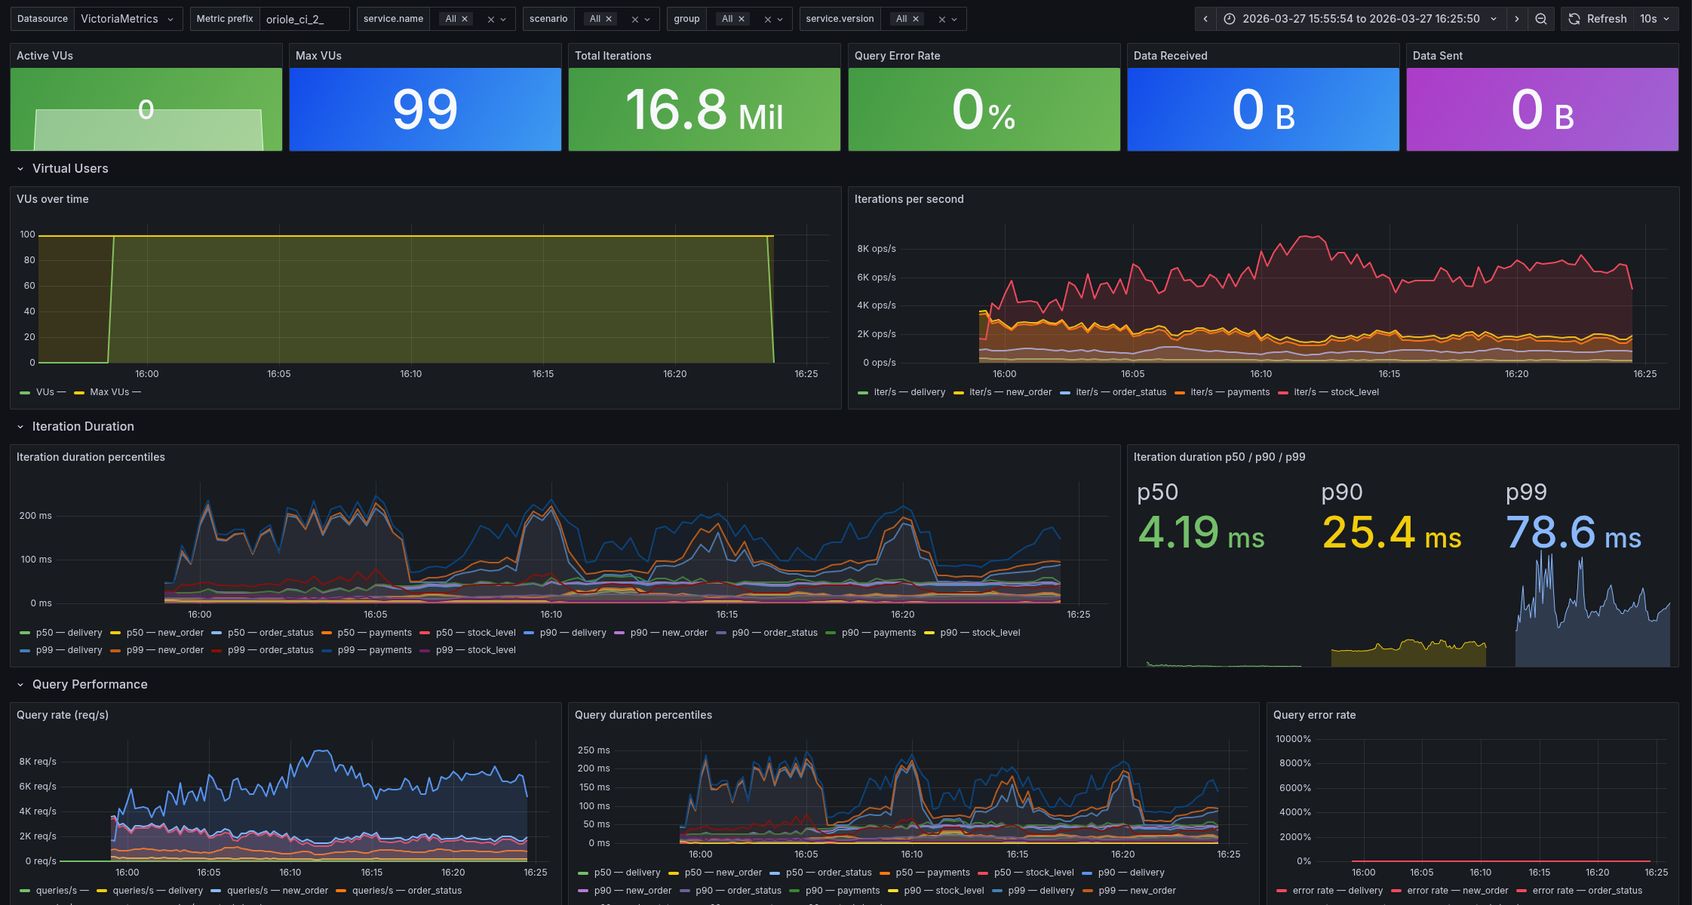
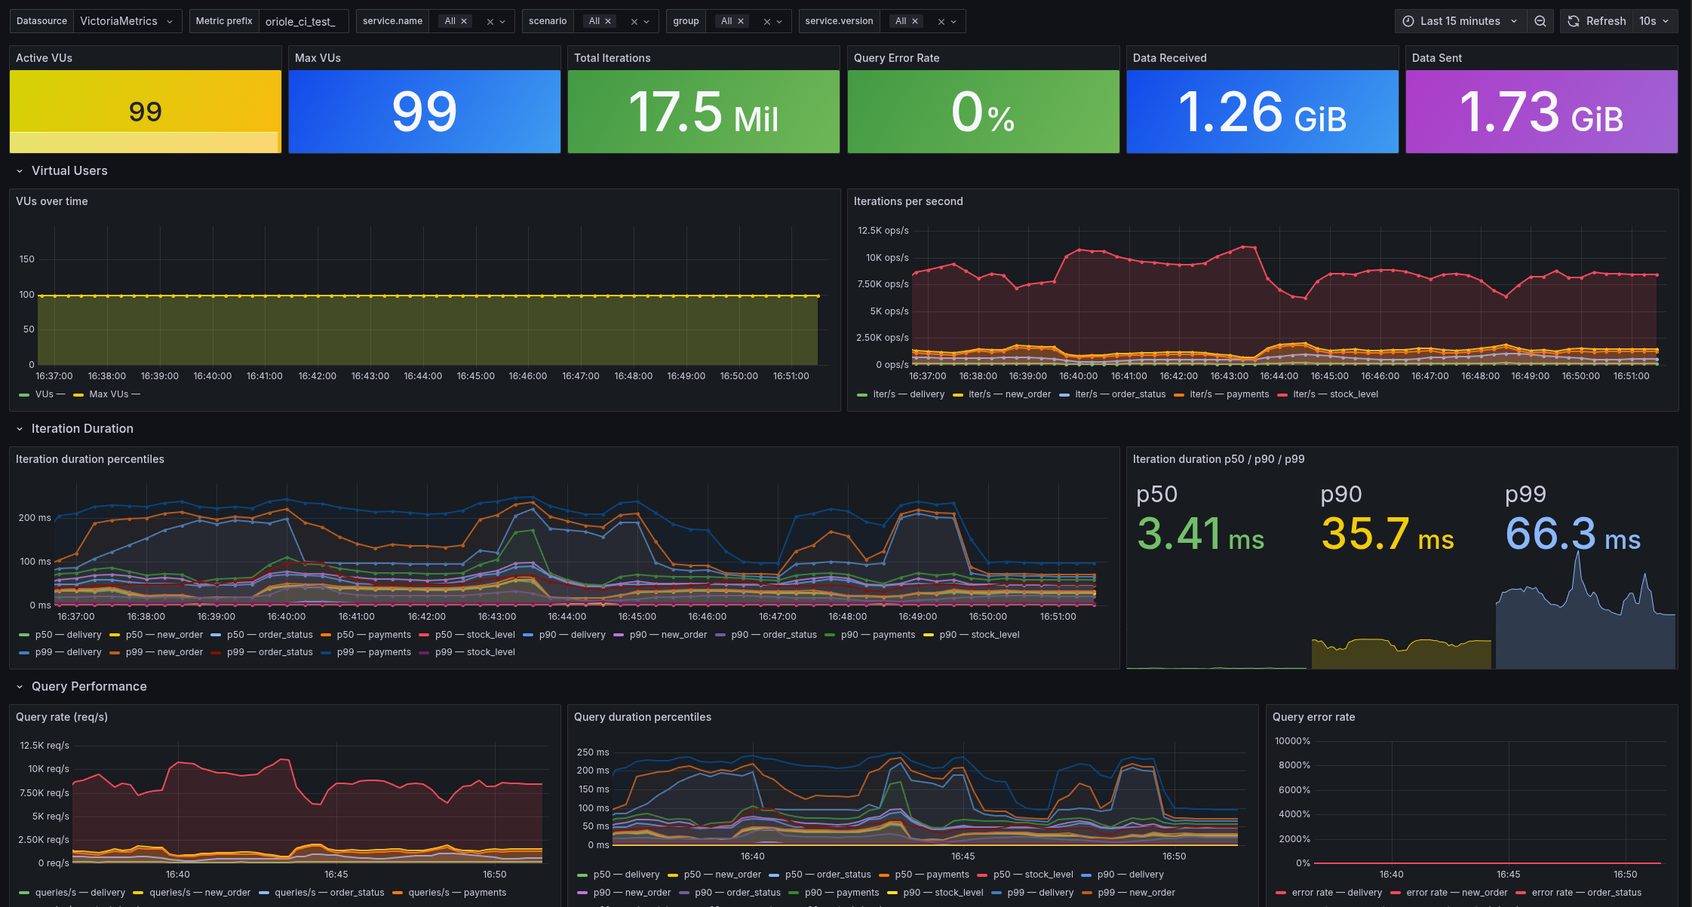
[blog] fix perf-in-ci

diff --git a/blog/2026-03-27-perf-in-ci/index.md b/blog/2026-03-27-perf-in-ci/index.md
@@ -5,271 +5,133 @@ authors: [stroppy-authors]
 tags: [ci, performance, tpc-c, orioledb, github-actions, monitoring]
 ---
 
-Imagine this scenario: a developer submits a Pull Request with an optimization. The reviewer examines the code, finds it correct, and approves it. A month later, it turns out that this "optimization" slowed down a critical path by 30%, but nobody noticed - because nobody measured. Finding the offending commit among dozens of merges is a matter of days, and reverting it is even harder.
+---
 
-This is a universal problem for any database engine, storage system, or performance-sensitive project. The only reliable solution is to measure automatically, on every PR, and present the results where the decision is being made - right in the pull request.
+## The Problem
 
-[Stroppy](https://github.com/stroppy-io/stroppy) is a multi-database, multi-benchmark performance testing tool built on top of [K6](https://k6.io/). It supports various workload types and database targets, with ready-made presets, structured result collection, and native CI integration via [stroppy-action](https://github.com/stroppy-io/stroppy-action).
+In performance-critical systems, ideally we want to validate every source code change and make sure no performance regressions are introduced. Functional tests handle correctness, but performance is trickier — how do you know a change won't slow things down?
 
-This article is a concrete case study: how we used Stroppy to build an automated performance testing pipeline for [OrioleDB](https://github.com/orioledb/orioledb) in GitHub Actions. Along the way, we tackled reproducibility, monitoring, and test acceleration - problems that arise in any CI performance testing setup.
+We worked with the OrioleDB maintainers to build a CI pipeline that runs TPC-C benchmarks on every PR and flags regressions before merge.
+
+OrioleDB is a PostgreSQL extension that combines the advantages of both on-disk and in-memory storage engines, using PostgreSQL's pluggable storage to improve performance and reduce costs.
 
 <!-- truncate -->
 
-### What is OrioleDB
-
-OrioleDB is a PostgreSQL extension that implements a fundamentally different storage engine. Instead of the standard heap-based storage, where every UPDATE creates a new row version and leaves a dead tuple for vacuum, OrioleDB offers an undo-log architecture with row-level WAL. This provides more efficient MVCC handling, virtually zero bloat, and better performance on OLTP workloads. The architecture is tightly coupled with performance at the level of every line of code - a change in B-tree traversal or in the checkpoint procedure can unexpectedly affect throughput or latency. This makes automated performance testing not a "nice to have" but a necessity.
-
 ---
 
-## Why test performance at the PR stage
+## How It Works
 
-One might argue: "we already run benchmarks before a release." But testing at the release stage is a post-mortem diagnosis. The regression is already in the code, already mixed in with dozens of other changes, and finding its source is a separate research task.
+### Stroppy Action
 
-Testing at the PR stage solves three fundamental problems:
+The best place to detect regressions is where changes are introduced: the Pull Request.
 
-**Regressions are caught at the point of origin.** When a benchmark shows "-12% throughput" on a specific PR - the culprit is obvious. No need to bisect the commit history, no need to reproduce the problem. The PR author sees the result and can fix or justify the regression right in the discussion.
+Since OrioleDB lives on GitHub, we built **[stroppy-action](https://github.com/stroppy-io/stroppy-action)** to run Stroppy directly from GitHub Actions:
 
-**Optimizations get evidence-based backing.** A PR with the description "sped up checkpoint by 20%" without numbers is a claim. A PR with an automated comment showing +18.3% iterations/s and -15.7% p95 latency is a fact. The reviewer sees not only that the code is correct, but that it actually improves things.
-
-**Manual benchmarks are no longer a bottleneck.** "It got faster on my laptop" is not a valid argument and cannot be one. Different machines, different configurations, different background noise from other processes. Automation eliminates the human factor: the same machine, the same test, automatic comparison, reproducible results.
-
-Our specific goal: on every PR in GitHub, a comment is automatically published with a "base vs head" table for key TPC-C metrics - throughput (iterations/s, queries/s) and latency (avg, median, p90, p95). The :white_check_mark: and :warning: indicators appear when deviation exceeds 3%, so the reviewer can instantly see whether there is cause for concern.
-
-![GitHub Actions pipeline: base and head benchmarks running in parallel](/img/blog/oriole-ci-action-view.jpg)
-
----
-
-## Making performance tests reliable
-
-An automated benchmark is useless if its results cannot be trusted. A 20% spread between runs, unpredictable timeouts, non-reproducible conditions - all of this turns the system from a decision-making tool into a noise generator. Reliability comes from three components: choosing the right benchmark, the right tool to run it, and the right environment configuration.
-
-### Choosing the benchmark: TPC-C
-
-The first candidate was pgbench - the standard PostgreSQL tool. It is simple, bundled with the distribution, and familiar to everyone. But pgbench implements TPC-B - a simplified benchmark with three tables and a single transaction type. For a storage engine that handles complex OLTP scenarios, this is too primitive.
-
-TPC-C is a different story. Five transaction types (new_order, payment, delivery, order_status, stock_level), nine tables with foreign keys, different access patterns - from point lookups to range scans. This is much closer to a real workload and better at revealing regressions in various code paths of the engine.
-
-### Running TPC-C with Stroppy
-
-Stroppy handles the full TPC-C cycle: schema generation, data loading (COPY for maximum speed), running the workload with the correct transaction distribution, and collecting results into structured JSON. Unlike bare K6, where you have to write the SQL and TPC-C logic yourself, Stroppy provides a ready-made preset with the correct transaction proportions and a proper data model.
-
-### stroppy-action: CI integration in a few lines of YAML
-
-To run Stroppy in CI, we use [stroppy-action](https://github.com/stroppy-io/stroppy-action) - a GitHub Action that encapsulates the entire process: installing the required Stroppy version, generating a script from a preset, running the benchmark, and uploading results as an artifact. The workflow file stays clean - a few lines of YAML instead of dozens of bash commands.
-
-During pipeline development, we discovered that the action did not allow passing arguments directly to Stroppy (only to K6). This became an issue when we needed to skip data loading when a cache was available (more on this below). The argument `--steps workload` is a command for Stroppy and must go *before* the `--` separator, not after it. We added a separate `stroppy-args` input so that the final command would look correct:
-
-```
-stroppy run tpcc.ts tpcc.sql --steps workload -- --summary-mode full --out opentelemetry
+```yaml
+  - name: Run TPC-C benchmark
+    uses: stroppy-io/stroppy-action@main
+    with:
+      preset: tpcc
+      driver-url: ...
+      k6-args: ...
+      stroppy-args: ...
 ```
 
-This illustrates a general principle: a tool must be flexible enough not to become a limitation. We did not foresee the need for `stroppy-args` at the start, but the architecture allowed adding it without breaking changes.
+### The Pipeline
 
-### PostgreSQL configuration: balancing realism and stability
+We created `.github/workflows/perf.yml` that runs on every PR:
 
-The `perf_pg_start.sh` script configures PostgreSQL so that results are both realistic and reproducible:
+```yaml
+jobs:
+  setup:
+    name: Generate run matrix
+    runs-on: ubuntu-latest
+    steps:
+      - id: gen
+        env:
+          RUNS: ${{ inputs.bench_runs || '1' }}
+          WAREHOUSES: ${{ inputs.warehouses || '200' }}
+        run: |
+          echo "run-matrix=$(python3 -c "
+          import json, os
+          runs = int(os.environ['RUNS'])
+          whs = [s.strip() for s in os.environ['WAREHOUSES'].split(',')]
+          print(json.dumps({'run': list(range(1, runs+1)), 'warehouses': whs}))
+          ")" >> $GITHUB_OUTPUT
+    ...
+  bench-base:
+    name: "Bench base ${{ matrix.warehouses }}W #${{ matrix.run }}"
+    needs: setup
+    runs-on: perf-runner
+    steps:
+      - name: Run TPC-C benchmark
+        uses: stroppy-io/stroppy-action@main
+        with:
+          preset: tpcc
+          driver-url: postgres://${{ env.PGUSER }}@localhost:5432/postgres?sslmode=disable
+          artifact-name: perf-results-base-${{ matrix.warehouses }}W-${{ matrix.run }}
+          k6-args: '--out opentelemetry'
+          stroppy-args: ${{ env.DB_CACHED == 'true' && '--steps workload' || '' }}
+    ...
+  bench-head:
+    name: "Bench head ${{ matrix.warehouses }}W #${{ matrix.run }}"
+    needs: setup
+    runs-on: perf-runner
+    steps:
+      - name: Run TPC-C benchmark
+        uses: stroppy-io/stroppy-action@main
+        with:
+          preset: tpcc
+          driver-url: postgres://${{ env.PGUSER }}@localhost:5432/postgres?sslmode=disable
+          artifact-name: perf-results-head-${{ matrix.warehouses }}W-${{ matrix.run }}
+          k6-args: '--out opentelemetry'
+          stroppy-args: ${{ env.DB_CACHED == 'true' && '--steps workload' || '' }}
+    ...
+  compare:
+    name: Compare results
+    ...
+```
 
-- **`shared_buffers` = 25% RAM** - computed automatically from `/proc/meminfo`. This is the standard PostgreSQL recommendation for dedicated servers, and automatic calculation ensures that the configuration adapts when moving to a different machine.
-- **`max_connections = 200`** - sufficient for 99 K6 virtual users with headroom to spare.
-- **`max_wal_size = 4GB`** - reduces checkpoint frequency, which can introduce unpredictable pauses during the benchmark.
-- **`default_table_access_method = 'orioledb'`** - all tables are automatically created through OrioleDB rather than the standard heap.
-- **`--disable-cassert` at build time** - this is a critical point. Asserts in PostgreSQL are a powerful development tool, but they can slow things down by 2-3x. The benchmark must measure the production configuration, not the debug mode.
+The pipeline benchmarks base and head, compares results, and posts a comment with the outcome.
 
----
+![Example workflow with performance tests running](/img/blog/oriole-ci-action-view.jpg)
 
-## Obtaining an objective assessment
+Full source: [orioledb/perf-test.yml](https://github.com/orioledb/orioledb/blob/main/.github/workflows/perf-test.yml).
 
-Even a reliable benchmark with the right configuration is useless if the runtime conditions are not controlled. A 5% throughput difference can be a real regression or it can be an artifact of apt-get upgrade running on the machine at the same time. Objectivity requires control over both the environment and the comparison methodology.
+![Example PR comment with performance testing results](/img/blog/oriole-ci-pr-comment-view.png)
 
-### Dedicated machines instead of shared runners
 
-GitHub provides shared runners - virtual machines shared among all users. This works great for functional tests, but is absolutely unsuitable for performance testing. The "noisy neighbor" effect on shared infrastructure can produce variation of tens of percent between runs.
+### Runners
 
-That is why benchmarks run on self-hosted runners - dedicated servers labeled `perf-runner`. These machines perform no other tasks, their configuration is fixed, and the only variable between runs is the code being tested.
+Testing is useless if it's not stable. We use two identical **dedicated self-hosted runners** to guarantee the same conditions for every run.
 
 ![Self-hosted perf-runners in GitHub Actions](/img/blog/oriole-runners-view.jpg)
 
-### Comparison methodology: base vs head
+### Monitoring
 
-The workflow is built around comparing two branches within a single run. This is essential: if bench-base ran on Monday and bench-head on Wednesday - the results are incomparable (machine temperature, OS background processes, disk state). Both benchmarks must run under conditions that are as close as possible.
+For each runner, we collect everything:
+- Full `node_exporter` and `postgres_exporter` metric sets
+- K6 and Stroppy metrics via OTEL
+- PostgreSQL logs
 
-The pipeline runs both benchmarks in parallel on separate identical machines, then compares results and posts a comment to the PR:
-
-```mermaid
-graph LR
-    PR["PR opened"] --> Setup["setup<br/>(generate matrix)"]
-    Setup --> Base["bench-base<br/>runner-1"]
-    Setup --> Head["bench-head<br/>runner-2"]
-    Base --> Compare["compare<br/>(perf_compare.py)"]
-    Head --> Compare
-    Compare --> Comment["PR comment<br/>with results"]
-```
-
-Initially, bench-head depended on bench-base (`needs: bench-base`), and both had a `max-parallel: 1` constraint. This was an excess of caution: we were worried about resource contention. But once it became clear that the runners are on different physical machines, and a GitHub Actions runner by design executes only one job at a time - the constraints were removed. The total run time was cut in half.
-
-### Configurable parameters
-
-The workflow supports execution via `workflow_dispatch` with configurable parameters:
-
-| Parameter | Default | Description |
-|-----------|---------|-------------|
-| `warehouses` | 200 | Number of TPC-C warehouses (comma-separated for matrix) |
-| `bench_duration` | 25m | Duration of a single run |
-| `bench_runs` | 1 | Number of runs (for computing the median) |
-| `vus_scale` | 1 | Virtual user multiplier (1 = 99 VU) |
-| `pool_size` | 100 | Connection pool size |
-| `base_ref` | main | Base branch for comparison |
-
-200 warehouses and 25 minutes are not arbitrary numbers. A small number of warehouses (1-10) creates an unrealistically hot dataset where everything fits in the buffer cache. 200 warehouses generate ~26 million rows - enough that the data does not fit entirely in shared_buffers and the benchmark reflects real I/O patterns. 25 minutes is enough for the system to reach a stable state after warmup and for the results to be statistically significant.
-
-When more precise measurements are needed, you can specify `bench_runs: 3` - the system will perform three runs and take the median, smoothing out random fluctuations.
-
----
-
-## Monitoring: from numbers to understanding
-
-A benchmark produces final numbers - throughput and latency. But when those numbers are unexpectedly bad, you need to understand *why*. CPU bottleneck? Swapping? Checkpoints too frequent? Deadlocks? Without monitoring, a benchmark is a black box.
-
-### Stroppy's OpenTelemetry integration
-
-This is where Stroppy's built-in observability becomes essential. Since Stroppy is built on K6, it inherits K6's native OpenTelemetry support - the ability to stream benchmark metrics in real time via OTEL protocol. This is not just an aggregated summary at the end; it is a live view of how throughput and latency evolve over the course of a 25-minute test. Was there a dip in the middle? Did latency stabilize after warmup? Did a checkpoint cause a throughput drop?
-
-In the workflow, this is activated with a single argument:
-
-```yaml
-k6-args: '--out opentelemetry'
-```
-
-The configuration lives entirely on the runner side - via environment variables in a `.env` file:
-
-```
-K6_OTEL_EXPORTER_TYPE=http
-K6_OTEL_HTTP_EXPORTER_ENDPOINT=vminsert.stroppy.io
-K6_OTEL_HTTP_EXPORTER_URL_PATH=/insert/multitenant/opentelemetry/v1/metrics
-K6_OTEL_METRIC_PREFIX=oriole_ci_
-K6_OTEL_SERVICE_NAME=stroppy_oriole_ci
-```
-
-The CI pipeline knows nothing about the endpoint, the credentials, or the fact that metrics are being sent anywhere at all. This transparency is a deliberate choice: the CI pipeline should remain simple and portable, while the infrastructure layer is configured separately.
-
-### Infrastructure monitoring around the benchmark
-
-Stroppy's OTEL metrics are one of three data streams we collect. To get the full picture, we added infrastructure-level monitoring that runs continuously on each runner as systemd services - completely transparent to CI:
-
-- **[node_exporter](https://github.com/prometheus/node_exporter)** - system metrics: CPU, memory, disk I/O, network. Answers whether the benchmark is CPU-bound, whether there is swap activity, or whether disk is saturated by checkpoints.
-- **[postgres_exporter](https://github.com/prometheus-community/postgres_exporter)** - database internals: transactions per second, buffer cache hit ratio, locks, checkpoint statistics. If K6 shows a throughput drop and the hit ratio fell from 99% to 85% - you know the problem is cache misses, not locks.
-- **[otelcol-contrib](https://opentelemetry.io/docs/collector/)** - PostgreSQL log collection in real time, parsed by severity and sent to VictoriaLogs. An ERROR during index creation or a FATAL at startup can explain unexpected benchmark results instantly.
-
-All three streams converge in a unified monitoring stack:
-
-```mermaid
-graph LR
-    subgraph Runner
-        NE["node_exporter<br/>:9100"]
-        PE["postgres_exporter<br/>:9187"]
-        OC["otelcol-contrib"]
-        K6["Stroppy / K6"]
-        PGLog["postgresql.log"]
-    end
-
-    subgraph "vminsert.stroppy.io"
-        VM["VictoriaMetrics"]
-        VL["VictoriaLogs"]
-    end
-
-    NE -->|"vmagent<br/>remote_write"| VM
-    PE -->|"vmagent<br/>remote_write"| VM
-    PGLog --> OC -->|"OTLP HTTP"| VL
-    K6 -->|"OTLP HTTP"| VM
-
-    VM --> Grafana
-    VL --> Grafana
-```
-
-Visualization is handled by Grafana at `grafana.stroppy.io`. A single dashboard shows all three layers simultaneously: machine load, PostgreSQL state, and benchmark results. Time-based correlation makes it instantly visible that a throughput dip at the 12th minute coincided with a long checkpoint and a spike in disk I/O.
+This lets us see how metrics change during tests and dig into regressions when they happen.
 
 ![Stroppy benchmark dashboard in Grafana](/img/blog/stroppy-dashboard.png)
-
 ![Node exporter dashboard: CPU, memory, disk, and network during the benchmark](/img/blog/node-exporter-dashboard.jpg)
 
----
+### Keeping It Fast
 
-## Speeding up tests
+Small datasets don't give you meaningful performance data. We settled on:
+- 200 warehouses (~15GB)
+- 25 minutes test duration
+- 99 virtual users
 
-Reliability and testing depth are worthless if the developer waits three hours for PR results. In CI, feedback speed is just as much on the critical path as quality. A PR waiting hours for a benchmark blocks work, accumulates merge conflicts, and reduces developers' motivation to use the system. A system that nobody uses is useless.
+Loading 200 warehouses takes ~30 minutes, so we cache the data on disk — cuts load time to ~5 minutes. With parallel execution on two machines, the full pipeline runs in ~30 minutes.
 
-### The problem: data loading as a bottleneck
 
-TPC-C for 200 warehouses is ~26 million rows of data: 6 million customer records, 20 million stock entries, 100 thousand items, plus warehouses, districts, orders, and order_lines. Stroppy loads all of this via PostgreSQL COPY - the fastest method for bulk insertion, but even it takes 15-30 minutes for this volume.
+## Try It Yourself
 
-Moreover, loading happens twice - for the base branch and for the head branch. That is 30-60 minutes just for data preparation, with a 25-minute benchmark itself. Total PR time exceeds one hour, of which the useful work (the actual benchmark) takes less than half.
-
-### The key insight: data does not depend on code
-
-TPC-C data is a fixed set of rows determined by two parameters: the PostgreSQL version and the number of warehouses. The code under test affects the *speed of working* with this data, but not the data itself. The warehouse, customer, and stock tables are the same for any commit.
-
-An important caveat: by skipping data loading, we deliberately exclude the insertion path (INSERT/COPY) from measurements. Insert performance is a separate and important characteristic, but it deserves its own benchmark with its own methodology, which is beyond the scope of this article.
-
-This means the data can be loaded once and reused. Self-hosted runners preserve state between runs - an ideal environment for a local cache.
-
-### Implementation: pgdata cache
-
-The `perf_db_cache.sh` script implements a two-phase cache:
-
-**Cache key:** `${PG_VERSION}-${WAREHOUSES}W` - for example, `17-200W`. It deliberately does not include the commit SHA, so that the cache is reused across different code versions.
-
-**Restore phase** (before the benchmark): the script checks for the existence of the cached pgdata directory. If the cache exists - PostgreSQL is stopped, pgdata is replaced with the cached copy, PostgreSQL is restarted. The variable `DB_CACHED=true` tells subsequent steps that data loading is not needed.
-
-**Save phase** (after the first benchmark): if there was no cache and Stroppy loaded data from scratch - PostgreSQL is stopped, pgdata is copied to the cache, PostgreSQL is restarted. No more than four caches are stored; the oldest ones are deleted automatically.
-
-When the cache is available, Stroppy is launched with the argument `--steps workload`, skipping the schema creation and data loading phases:
-
-```yaml
-stroppy-args: ${{ env.DB_CACHED == 'true' && '--steps workload' || '' }}
-```
-
-### Result: PR time cut in half
-
-| Stage | Without cache | With cache |
-|-------|--------------|------------|
-| Build PG + OrioleDB | ~2 min (build cache) | ~2 min |
-| Load TPC-C data | 15-30 min | ~5 min (cp -a 24GB) |
-| Benchmark | 25 min | 25 min |
-| **Total per single run** | **~45 min** | **~32 min** |
-| **base + head (parallel)** | **~45 min** | **~32 min** |
-
-The first run with a new warehouse count proceeds in full and creates the cache. All subsequent runs use this cache regardless of the code version. The cache is automatically invalidated when the PostgreSQL version or the number of warehouses changes.
-
-Copying 24GB of pgdata takes ~5 minutes - not instant, but 3-6x faster than loading via COPY. Combined with running base and head in parallel on two machines, the total PR time is ~32 minutes - acceptable for CI.
-
----
-
-## Conclusion
-
-The automated performance testing pipeline is not one large project, but a sequence of responses to specific problems:
-
-- Need an objective assessment of PR performance -> **automated TPC-C benchmark** via Stroppy with results published as a comment.
-- Results cannot be trusted on shared runners -> **dedicated self-hosted runners** with fixed configuration.
-- Unclear why results look the way they do -> **full monitoring stack** with Stroppy's OTEL integration at its core, plus system and database metrics via VictoriaMetrics and Grafana.
-- PR waits too long for results -> **TPC-C data caching** and **parallel execution** of base/head on separate machines.
-
-Each of these solutions is minimal in code volume but significant in impact. The pgdata cache is 70 lines of shell script that reduces PR time by 15-30 minutes. The permissions block is one line of YAML that eliminates 403 errors.
-
-The result is a system that developers use not because they have to, but because it is useful. On every PR, a concrete answer arrives: "throughput +2.3%, p95 latency -1.8%" - and those numbers can be trusted.
-
----
-
-## Try it yourself
-
-- **[Stroppy](https://github.com/stroppy-io/stroppy)** - the benchmark tool. Supports multiple databases and workload types.
-- **[stroppy-action](https://github.com/stroppy-io/stroppy-action)** - the GitHub Action for CI integration.
-- **[stroppy.io](https://stroppy.io)** - documentation and guides.
-
-A minimal workflow to get started with performance testing on your project:
-
-```yaml
-- uses: stroppy-io/stroppy-action@v1
-  with:
-    preset: tpcc
-    pg-conn-string: postgresql://user:pass@localhost:5432/bench
-```
+- **[orioledb/perf-test.yml](https://github.com/orioledb/orioledb/blob/main/.github/workflows/perf-test.yml)** — the OrioleDB performance testing workflow
+- **[Stroppy](https://github.com/stroppy-io/stroppy)** — the benchmark tool, supports multiple databases and workload types
+    - **[stroppy-action](https://github.com/stroppy-io/stroppy-action)** — GitHub Action for CI integration
+- **[stroppy.io](https://stroppy.io)** — documentation and guides
